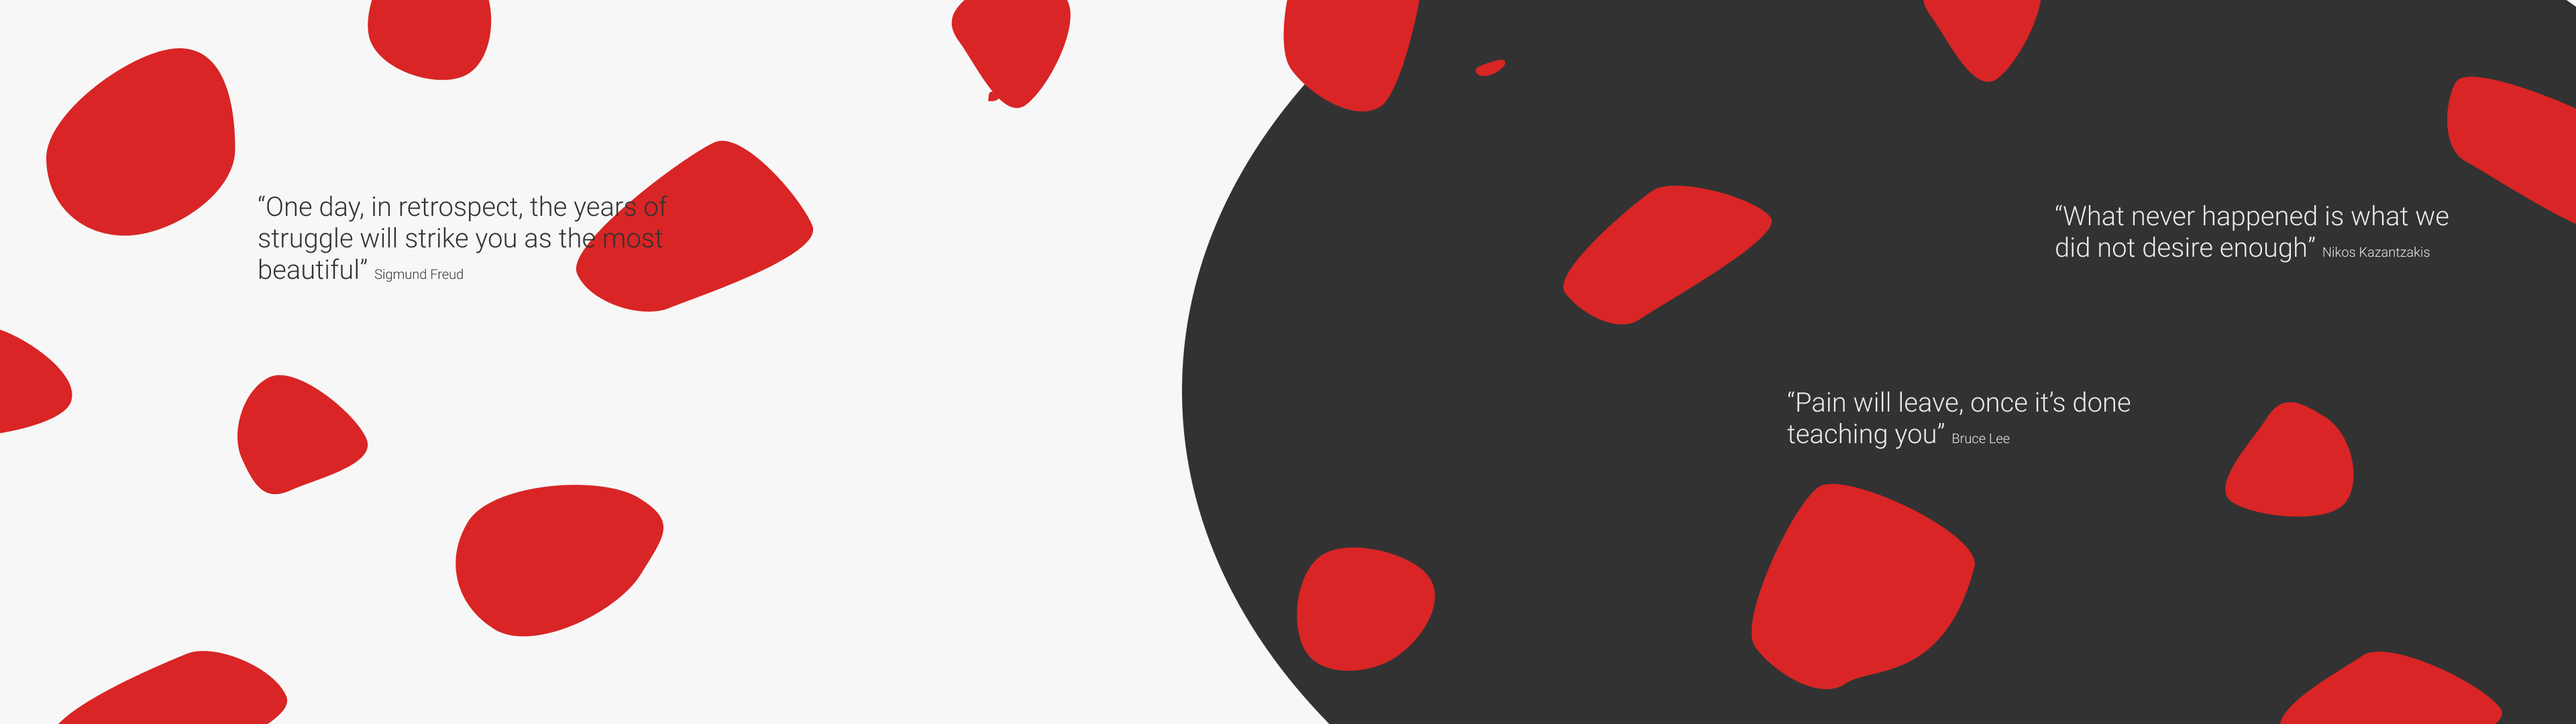
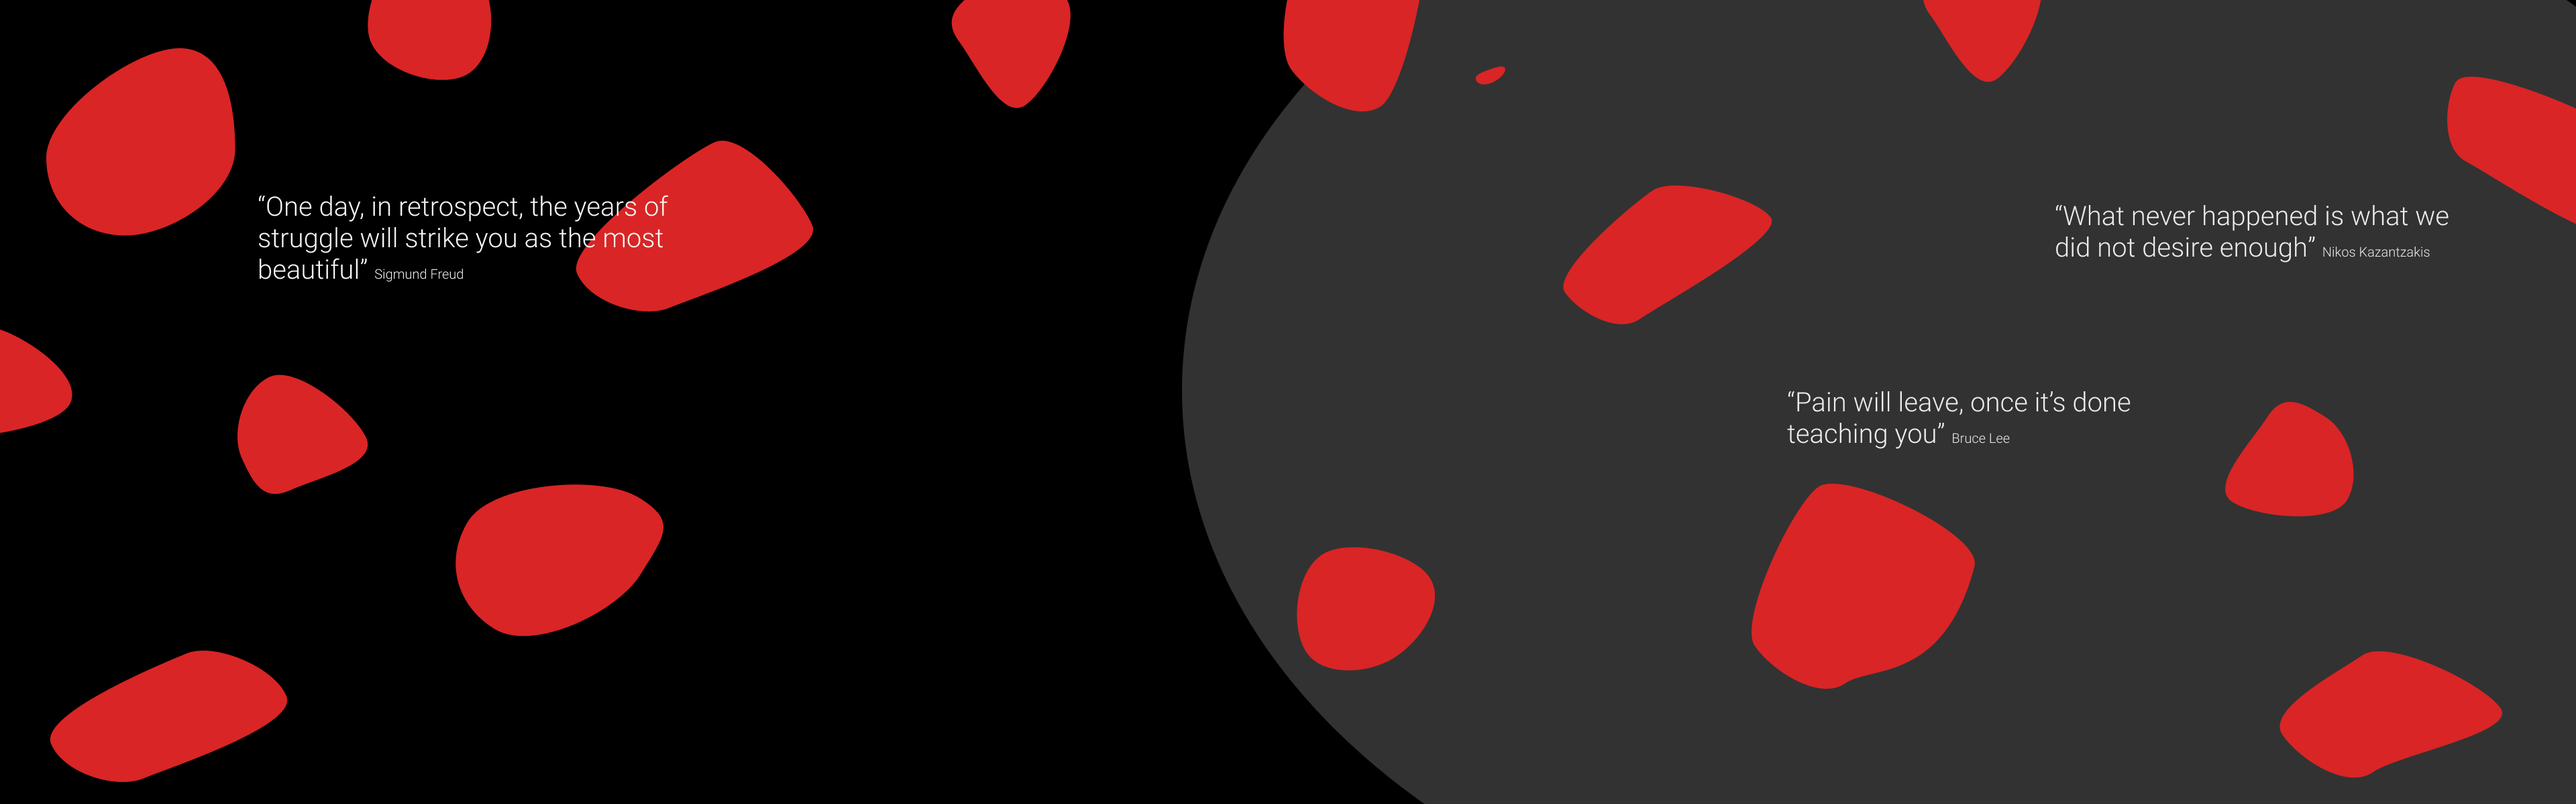
Small changes after feedback, not final

diff --git a/fullstack-template/frontend/src/app/pages/leftwall/main-box/main-box.component.html b/fullstack-template/frontend/src/app/pages/leftwall/main-box/main-box.component.html
@@ -21,15 +21,15 @@
           <img src="./../../../../assets/bpm.png" alt="bpm">
           <div class="stat-box">
               <h1 class="header-1 color-text--swhite ">BPM</h1>
-              <span><span class="header-1 " style="color: #D92525;">93</span> <span class="header-4 color-text--shade--lighter ">average<br>today</span></span>
+              <span><span class="header-1 " style="color: #d67272;">93</span> <span class="header-4 color-text--shade--lighter ">average<br>today</span></span>
           </div>
           <div class="stat-box">
               <h1 class="header-1 color-text--shade--dark ">Calories</h1>
-              <span><span class="header-1 " style="color: #D92525;">102</span> <span class="header-4 color-text--shade--lighter ">average<br>this week</span></span>
+              <span><span class="header-1 " style="color: #d67272;">102</span> <span class="header-4 color-text--shade--lighter ">average<br>this week</span></span>
           </div>
           <div class="stat-box">
               <h1 class="header-1 color-text--shade--dark ">Calories</h1>
-              <span><span class="header-1 " style="color: #D92525;">98</span> <span class="header-4 color-text--shade--lighter ">average<br>daily avg</span></span>
+              <span><span class="header-1 " style="color: #d67272;">98</span> <span class="header-4 color-text--shade--lighter ">average<br>daily avg</span></span>
           </div>
 
       </div>

diff --git a/fullstack-template/frontend/src/app/pages/leftwall/performance/performance.component.html b/fullstack-template/frontend/src/app/pages/leftwall/performance/performance.component.html
@@ -9,7 +9,7 @@
               <h3 class="header-3 color-text--swhite  ">Hammer Curls</h3>
           </div>
           <div class="max-box">
-              <h4 class="header-4 color-text--flurescent--red  ">max(kgs):  22</h4>
+              <h4 class="header-4" style="color: #d67272;">max(kgs):  22</h4>
           </div>
 
       </div>
@@ -21,7 +21,7 @@
               <h3 class="header-3 color-text--swhite  ">Close Triceps Pushups</h3>
           </div>
           <div class="max-box">
-              <h4 class="header-4 color-text--flurescent--red  ">max(kgs):  22</h4>
+              <h4 class="header-4" style="color: #d67272;">max(kgs):  22</h4>
           </div>
 
       </div>

diff --git a/fullstack-template/frontend/src/app/pages/rightwall/music/music.component.html b/fullstack-template/frontend/src/app/pages/rightwall/music/music.component.html
@@ -13,7 +13,7 @@
       </div>
 
       <div class="icons-area">
-          <img src="./../../../../assets/prev-song.png" class="fbutton" alt="disc" #prevButton (click)="prevSong()">
+          <img src="./../../../../assets/prev song.svg" class="fbutton" alt="disc" #prevButton (click)="prevSong()">
           <img src="./../../../../assets/play-dark.svg" class="fbutton"alt="disc"#playbackButton (click)="togglePlayback()">
           <img src="./../../../../assets/next-song.svg" class="fbutton" alt="disc" #nextButton (click)="nextSong()">
       </div>

diff --git a/fullstack-template/frontend/src/environments/environment.ts b/fullstack-template/frontend/src/environments/environment.ts
@@ -5,7 +5,7 @@
 export const environment = {
   production: false,
   /* set the bellow to your local ip in order for other devices to be able to connect to backend */
-  host: 'http://192.168.1.5:8080'
+  host: 'http://139.91.96.99:8080'
 };
 
 /*

diff --git a/fullstack-template/frontend/src/app/pages/rightwall/rightwall.component.css b/fullstack-template/frontend/src/app/pages/rightwall/rightwall.component.css
@@ -7,6 +7,7 @@ music {
 }
 body {
   background-image: url(./../../../assets/rightwall.png);
+  background-color: #000000;
   background-repeat: no-repeat;
   height: 1200px;
   display: flex;

diff --git a/fullstack-template/frontend/src/app/pages/leftwall/leftwall.component.css b/fullstack-template/frontend/src/app/pages/leftwall/leftwall.component.css
@@ -9,6 +9,7 @@
 
 body{
   background-image: url("./../../../assets/leftwall.png");
+  background-color: #000000;
   background-repeat: no-repeat;
   height: 1200px;
   display: flex;
